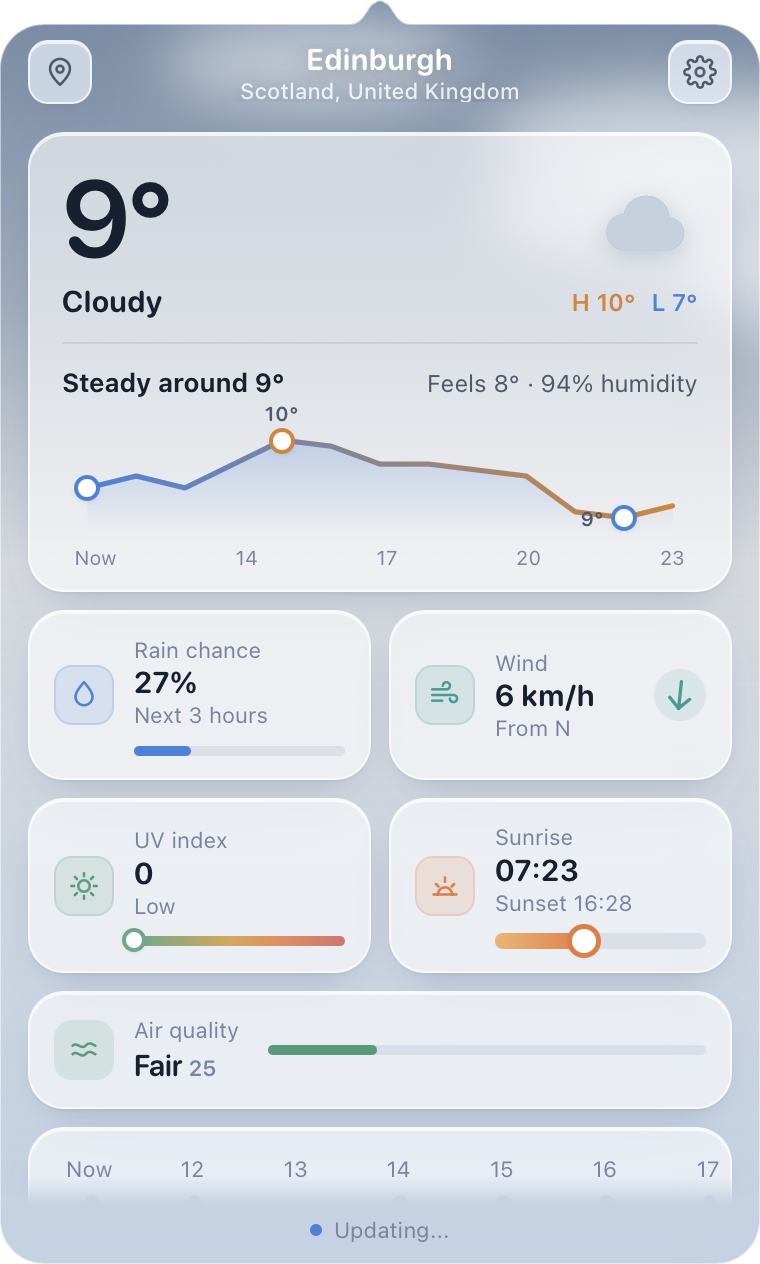
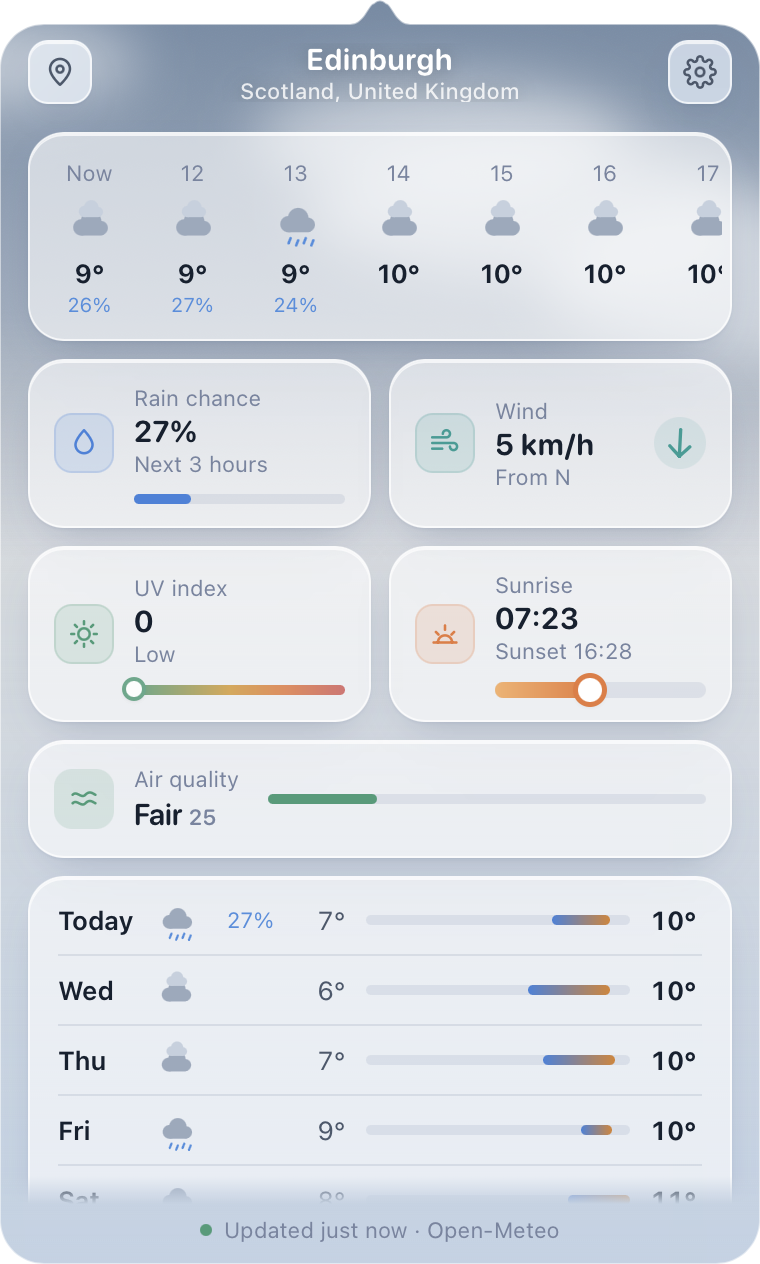
fix: panel never opens blank (1.0.2)

diff --git a/web/engine.js b/web/engine.js
@@ -107,22 +107,12 @@
     return now - R.lastAttempt >= (R.open ? OPEN_EVERY : CLOSED_EVERY);
   }
 
-  /* Same idea as Ludus: the panel keeps its last picture while closed, so the page is hidden then and only
-     shown again (a quick fade) once the fresh screen has really been drawn, two frames after opening. */
-  let revealSeq = 0;
-  function reveal() {
-    const root = document.documentElement, my = ++revealSeq;
-    const show = () => { if (my === revealSeq) root.classList.remove('vacant'); };
-    requestAnimationFrame(() => requestAnimationFrame(show));
-    setTimeout(show, 300);   // never stay hidden
-  }
-
   const api = {
     host, S, R, subscribe: (f) => { listeners.add(f); return () => listeners.delete(f); },
     primary, selectedPlace, checkRain,
     refresh, tick() { if (due()) refresh('timer'); emit('clock'); },
-    opened() { R.open = true; reveal(); if (Date.now() - R.lastAttempt > STALE_ON_OPEN) refresh('open'); emit('opened'); },
-    closed() { R.open = false; document.documentElement.classList.add('vacant'); emit('closed'); },
+    opened() { R.open = true; if (Date.now() - R.lastAttempt > STALE_ON_OPEN) refresh('open'); emit('opened'); },
+    closed() { R.open = false; emit('closed'); },
     wake() { R.nextRetry = 0; refresh('wake'); },
     setSettings(patch) {
       if ('unit' in patch || 'speed' in patch) patch = Object.assign({ autoUnits: false }, patch);

diff --git a/web/style.css b/web/style.css
@@ -277,9 +277,6 @@ button.row:active { transform: scale(0.985); }
 .upd-bar i { display: block; height: 100%; width: 4%; border-radius: 999px; background: var(--accent); transition: width 0.25s var(--ease-out); }
 .btn:disabled { opacity: 0.6; cursor: default; }
 
-/* Open reveal: hidden while the panel is closed, fades in once drawn */
-#app { transition: opacity 0.12s ease-out; }
-html.vacant #app { opacity: 0; transition: none; }
 
 /* Swipe-to-remove rows (no delete button): a soft red wash grows behind the row as it slides left */
 .prow { position: relative; overflow: hidden; border-radius: 12px; }

diff --git a/web/app.js b/web/app.js
@@ -188,7 +188,6 @@
     if (reduceMotion() || !app.animate) return;
     // Same entrance as the other menu bar apps: the content settles in from a hair smaller, anchored at the top, with a light spring.
     app.animate([{ transform: 'scale(0.965)' }, { transform: 'scale(1)' }], { duration: 420, easing: 'cubic-bezier(0.34, 1.2, 0.5, 1)' });
-    app.animate([{ opacity: 0 }, { opacity: 1 }], { duration: 200, easing: 'ease-out' });
   }
 
   function bindWelcome() {

diff --git a/CHANGELOG.md b/CHANGELOG.md
@@ -1,12 +1,14 @@
 # Changelog
 
+## 1.0.2 (3 Nov 2026)
+- Fix: the panel could open blank for a moment; the screen is now always visible and just settles in.
+
 ## 1.0.1 (3 Nov 2026)
 - The hourly forecast is now at the top, followed by rain, wind, UV and sunrise; the old top card is gone.
 - Sunrise bar is a round pill with a sun marker.
 - Saved places are removed by swiping the row to the left (no delete button).
 - Settings can be driven from the keyboard: Up/Down to move, Left/Right or Space to change, Esc to go back.
 - The menu bar icon no longer bounces.
-- Opening the panel fades the fresh screen in, so no stale picture shows.
 - Settings has a Check for updates row.
 
 ## 1.0.0 (3 Nov 2026)
